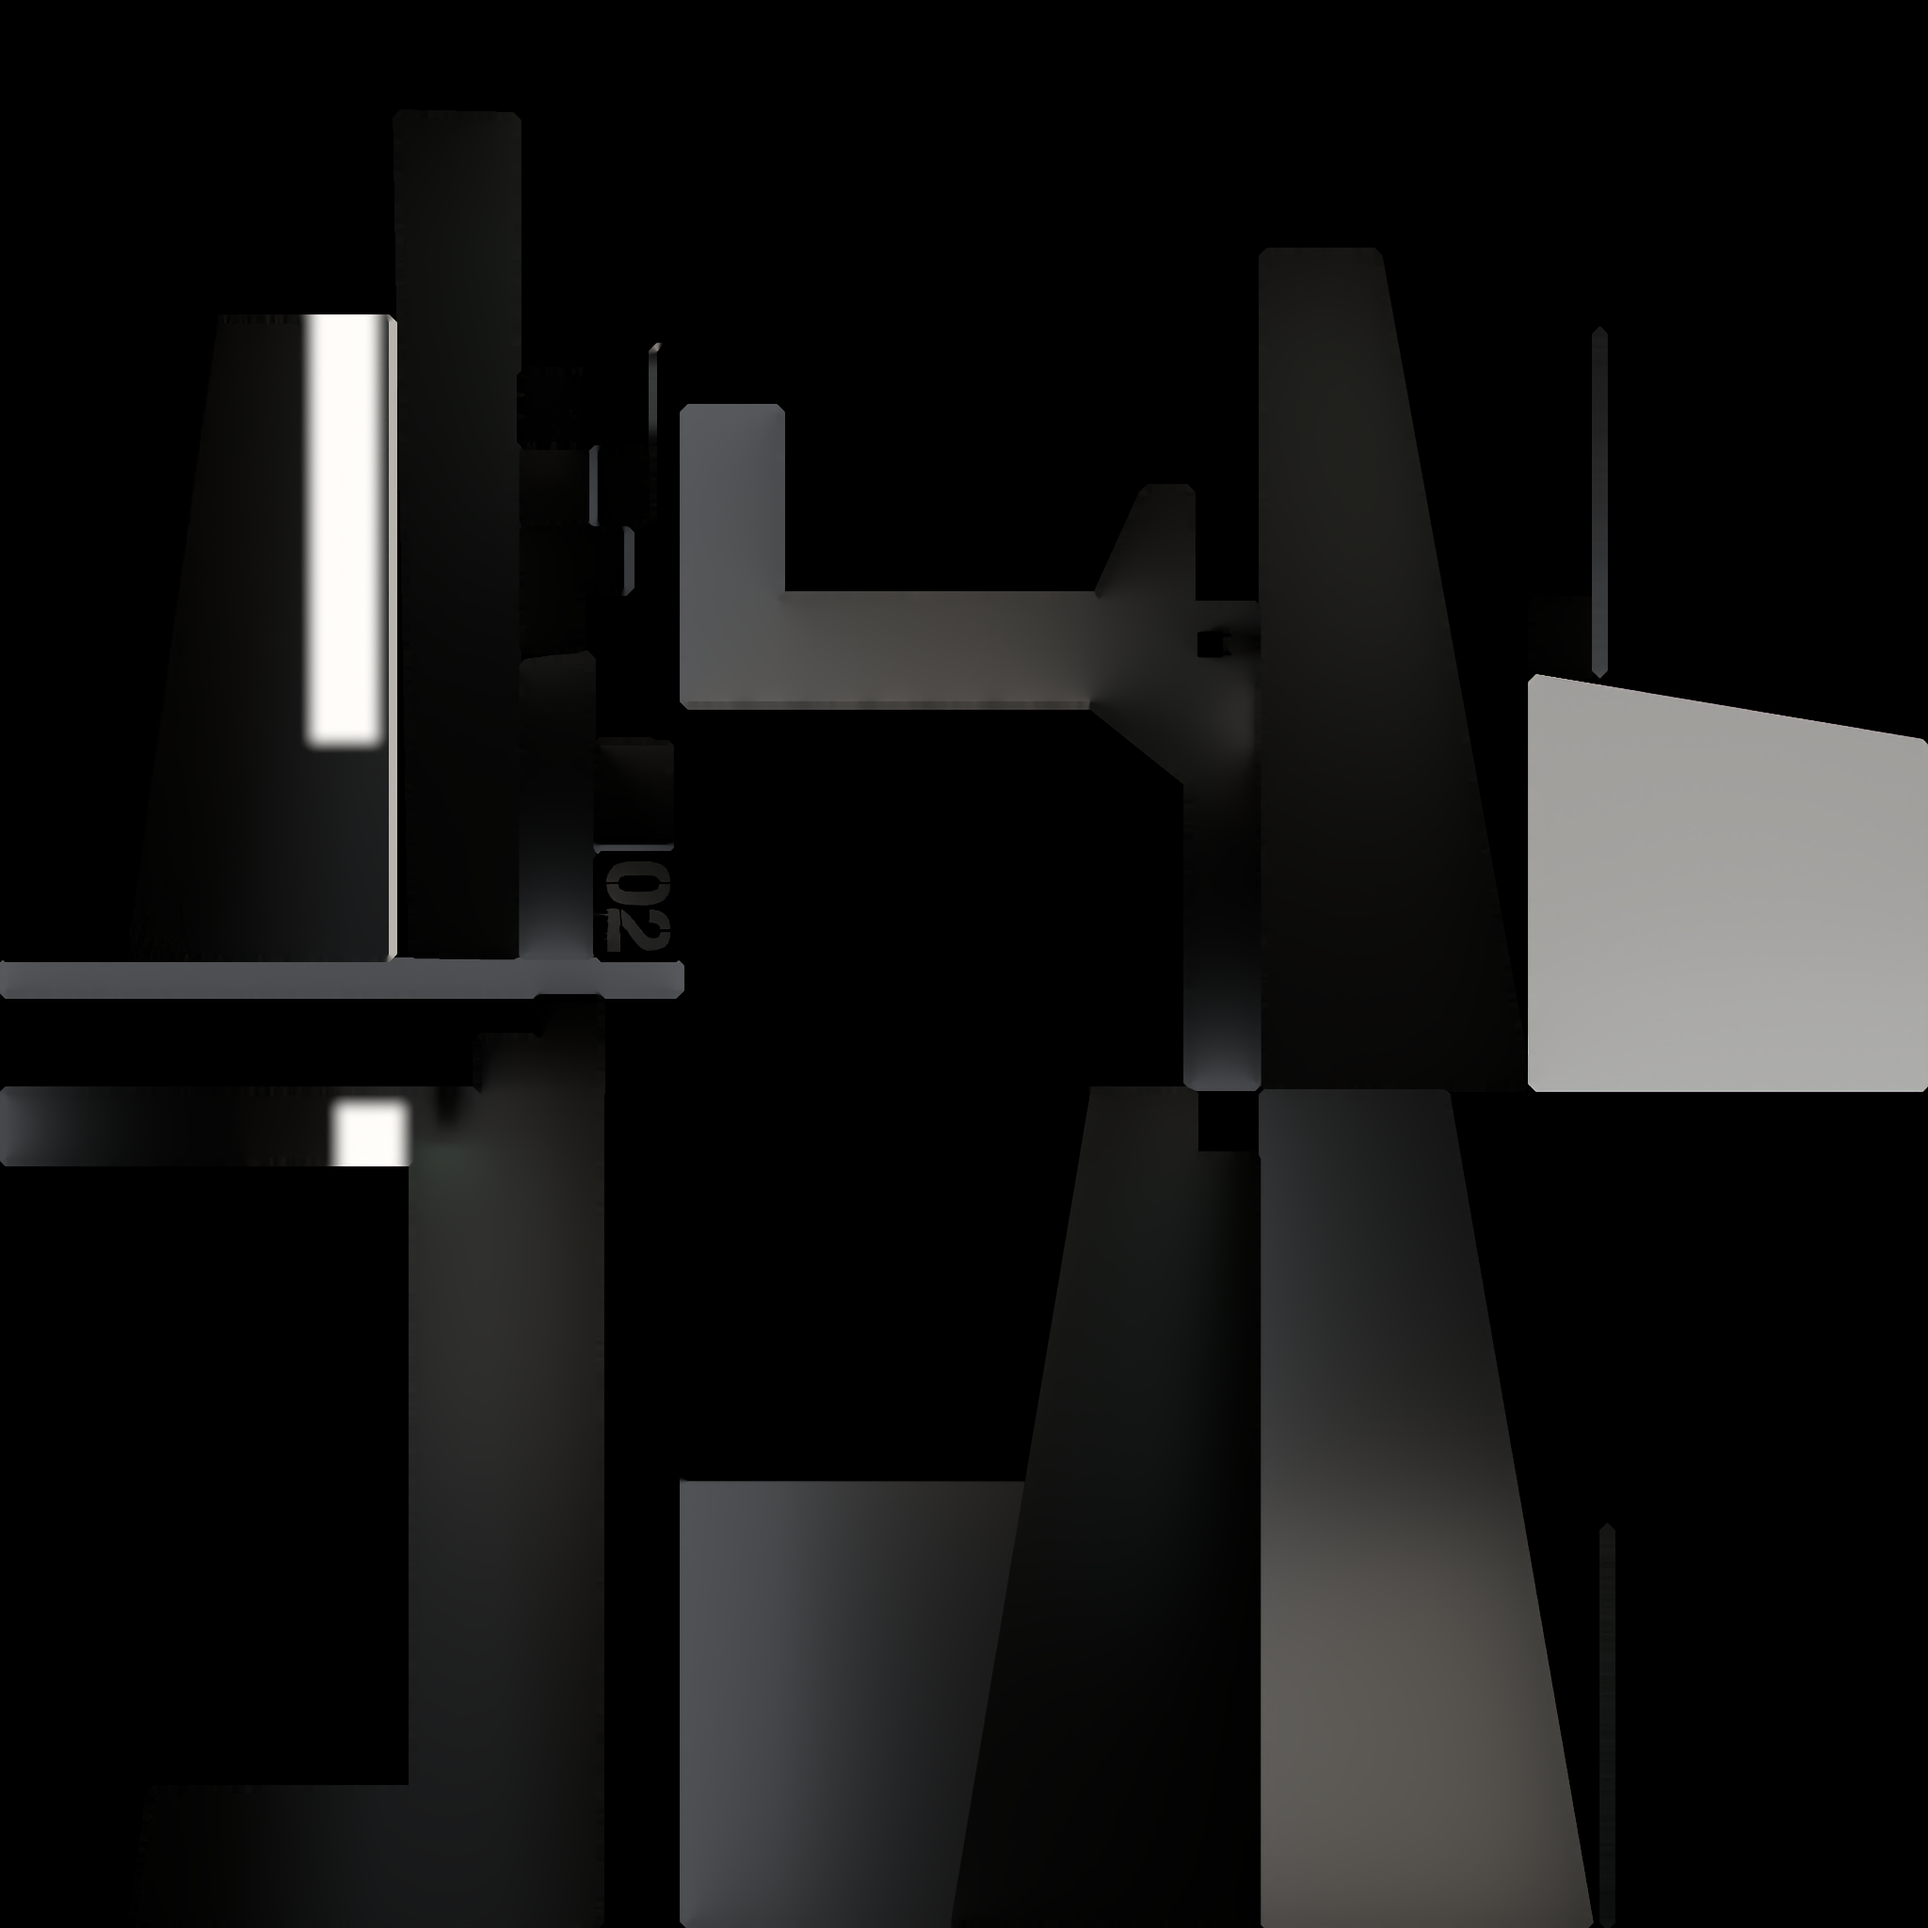
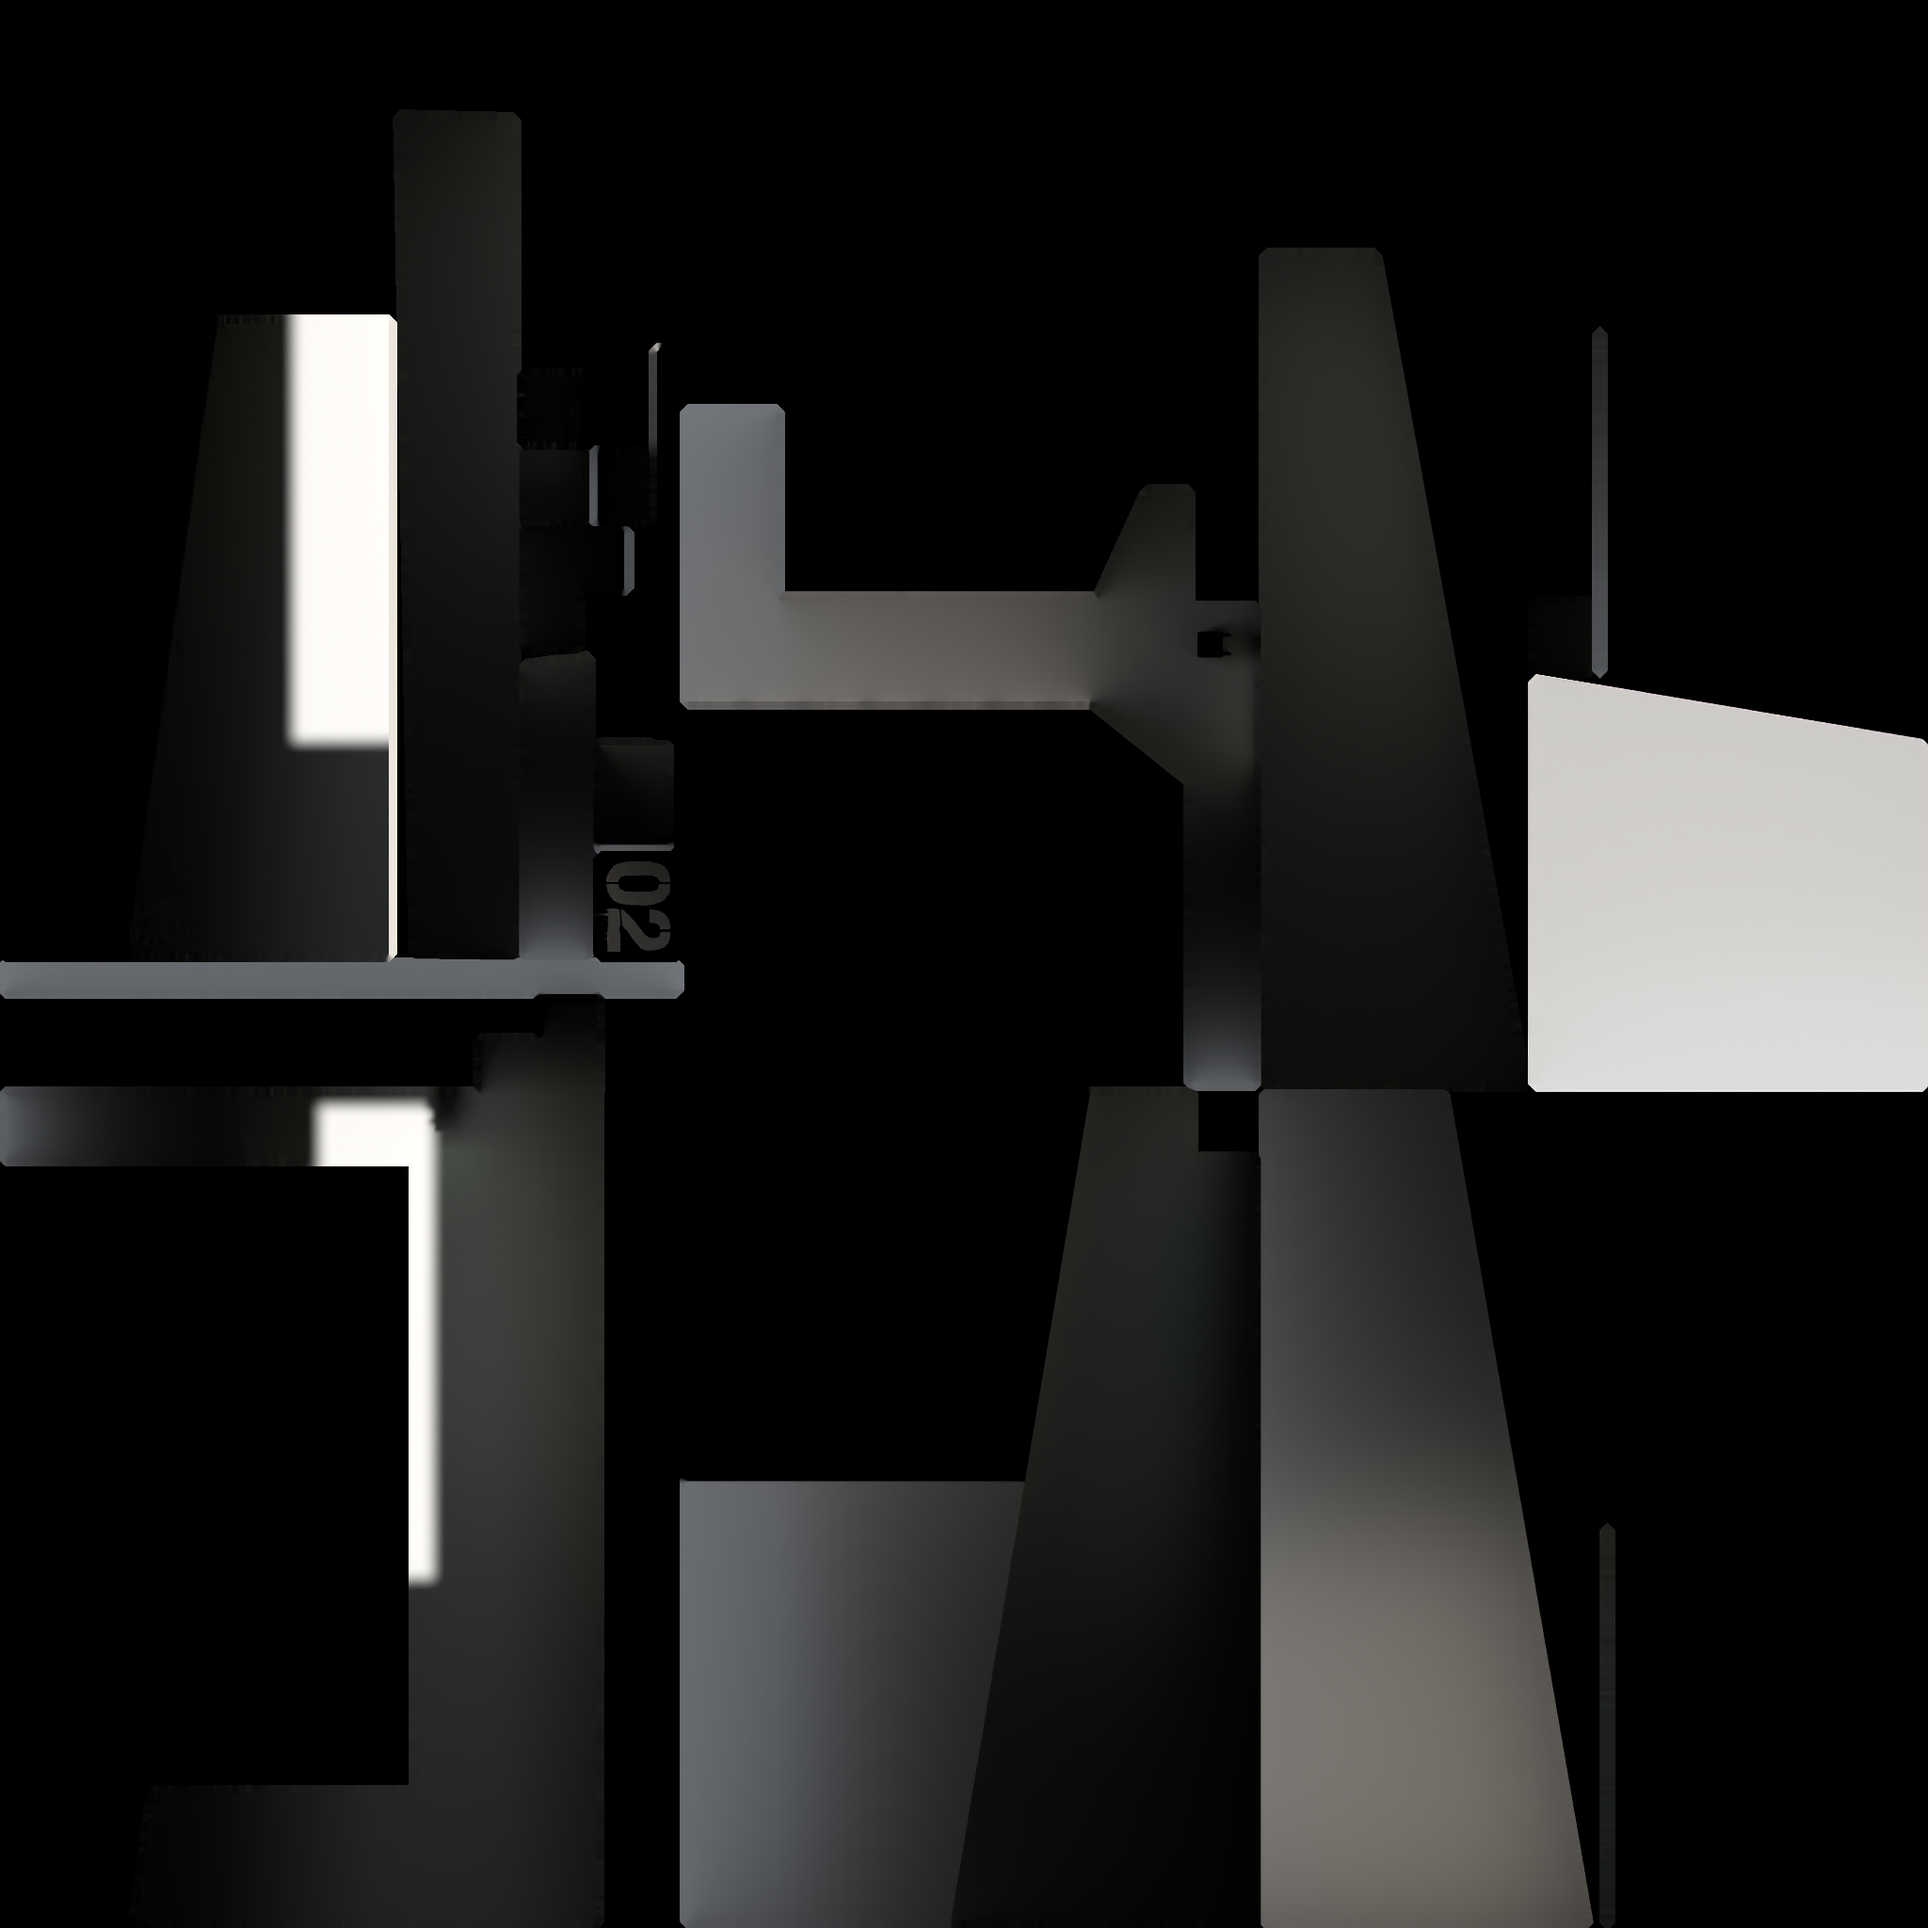
Gallery: vertical nav + outlined name, click anywhere to fly in, terminal click cue, rebake, new grade

diff --git a/src/scripts/gallery/gallery.js b/src/scripts/gallery/gallery.js
@@ -20,6 +20,25 @@ const LIGHT_SCALE = { Fill: 0.0004, Terminal_ScreenGlow: 0.4 };
 // Blender is Z-up, glTF/three is Y-up: (x, y, z) -> (x, z, -y)
 const fromBlender = ([x, y, z]) => new THREE.Vector3(x, z, -y);
 const ease = (t) => (t < 0.5 ? 4 * t * t * t : 1 - Math.pow(-2 * t + 2, 3) / 2);
+const CUE_PERIOD = 5;               // s between "click me" pulses on the terminal (hallway view)
+const CUE_LENGTH = 2;               // s each pulse lasts
+const CUE_PX = 1.5;                 // outline thickness, CSS pixels
+
+// Inverted hull: back faces pushed out along the normal by a fixed number of screen pixels,
+// drawn behind the terminal, so only a rim around its silhouette shows.
+const OutlineShader = {
+  uniforms: { alpha: { value: 0 }, px: { value: CUE_PX }, pxPerMetre: { value: 800 } },
+  vertexShader: /* glsl */ `
+    uniform float px, pxPerMetre;
+    void main() {
+      vec4 mv = modelViewMatrix * vec4(position, 1.0);
+      mv.xyz += normalize(normalMatrix * normal) * px * -mv.z / pxPerMetre;
+      gl_Position = projectionMatrix * mv;
+    }`,
+  fragmentShader: /* glsl */ `
+    uniform float alpha;
+    void main() { gl_FragColor = vec4(vec3(1.0), alpha); }`,
+};
 
 export async function initGallery(root, data, { assets = "/gallery/", onProgress = () => {} } = {}) {
   const host = root.querySelector("[data-gallery-canvas]");
@@ -158,6 +177,33 @@ export async function initGallery(root, data, { assets = "/gallery/", onProgress
   const termBox = new THREE.Box3();
   for (const m of terminalMeshes) termBox.expandByObject(m);
 
+  // ---------------------------------------------------------------- "clickable" cue
+  // Now and then the terminal gets a white rim and a faded "Click on it" above it.
+  const outlineMat = new THREE.ShaderMaterial({ ...OutlineShader, uniforms: THREE.UniformsUtils.clone(OutlineShader.uniforms),
+    side: THREE.BackSide, transparent: true, depthWrite: false });
+  for (const m of terminalMeshes) {
+    const rim = new THREE.Mesh(m.geometry, outlineMat);
+    rim.renderOrder = 1;
+    rim.raycast = () => {};
+    m.add(rim);
+  }
+  const cueLabel = root.querySelector("[data-gallery-cue]");
+  const cueAnchor = new THREE.Vector3((termBox.min.x + termBox.max.x) / 2, termBox.max.y, (termBox.min.z + termBox.max.z) / 2);
+  const cueScreen = new THREE.Vector3();
+  let cue = 0;
+  function updateCue(dt, t) {
+    const phase = (t % CUE_PERIOD) / CUE_LENGTH;
+    const target = state === "hero" && phase < 1 ? Math.sin(Math.PI * phase) ** 2 : 0;
+    cue += (target - cue) * (1 - Math.exp(-dt * 12));     // quick fade when you leave the hallway
+    outlineMat.uniforms.alpha.value = 0.85 * cue;
+    if (!cueLabel) return;
+    cueLabel.style.opacity = String(0.55 * cue);
+    if (cue < 0.01) return;
+    cueScreen.copy(cueAnchor).project(camera);
+    const r = renderer.domElement.getBoundingClientRect();
+    cueLabel.style.transform = `translate(${((cueScreen.x + 1) / 2) * r.width}px, ${((1 - cueScreen.y) / 2) * r.height}px) translate(-50%, calc(-100% - 10px))`;
+  }
+
   // ---------------------------------------------------------------- water
   // Rippled real-time mirror of the hall; its look is driven by the grade (grade.js).
   const water = waterMesh ? createWater(waterMesh, renderer) : null;
@@ -241,7 +287,7 @@ export async function initGallery(root, data, { assets = "/gallery/", onProgress
     const r = renderer.domElement.getBoundingClientRect();
     mouse.set(((e.clientX - r.left) / r.width) * 2 - 1, ((e.clientY - r.top) / r.height) * 2 - 1);
     let pointer = false;
-    if (state === "hero") pointer = !!pick(e, terminalMeshes);
+    if (state === "hero") pointer = true;            // anywhere in the hallway walks you to the terminal
     else if (state === "terminal" && screenMesh) {
       const hit = pick(e, [screenMesh]);
       pointer = hit ? terminal.pointer(hit.uv) : false;
@@ -249,7 +295,7 @@ export async function initGallery(root, data, { assets = "/gallery/", onProgress
     renderer.domElement.style.cursor = pointer ? "pointer" : "";
   });
   renderer.domElement.addEventListener("click", (e) => {
-    if (state === "hero" && pick(e, terminalMeshes)) flyIn();
+    if (state === "hero") flyIn();
     else if (state === "terminal" && screenMesh) {
       const hit = pick(e, [screenMesh]);
       if (hit) terminal.click(hit.uv);
@@ -257,6 +303,7 @@ export async function initGallery(root, data, { assets = "/gallery/", onProgress
   });
   renderer.domElement.addEventListener("wheel", (e) => {
     if (state === "terminal") { e.preventDefault(); terminal.wheel(e.deltaY); }
+    else if (state === "hero" && e.deltaY > 0) flyIn();   // "scroll to explore"
   }, { passive: false });
   addEventListener("keydown", (e) => {
     if (state !== "terminal") return;
@@ -271,6 +318,7 @@ export async function initGallery(root, data, { assets = "/gallery/", onProgress
     renderer.setSize(w, h);
     water?.resize(w * renderer.getPixelRatio(), h * renderer.getPixelRatio());
     dust?.resize(camera, h * renderer.getPixelRatio(), renderer.getPixelRatio());
+    outlineMat.uniforms.pxPerMetre.value = h / (2 * Math.tan(THREE.MathUtils.degToRad(camera.fov) / 2));
     if (state === "terminal") { const p = terminalPose(); pos.copy(p.pos); target.copy(p.target); }
   };
   new ResizeObserver(resize).observe(host);
@@ -298,6 +346,7 @@ export async function initGallery(root, data, { assets = "/gallery/", onProgress
     camera.position.y += Math.sin(t * 0.6) * 0.01;     // a breath of handheld drift
 
     terminal.update(dt, t);
+    updateCue(dt, t);
     water?.update(dt);
     dust?.update(dt);
     renderer.render(scene, camera);

diff --git a/src/scripts/gallery/grade.js b/src/scripts/gallery/grade.js
@@ -10,7 +10,7 @@ export const GRADE = {
   exposure: 1.13,
   contrast: 0.98,
   brightness: 1.4,
-  saturation: 1.19,
+  saturation: 2,
   hue: -20,
   sepia: 0,
   vignette: 1,
@@ -27,11 +27,11 @@ export const GRADE = {
   waterSpeed: 1,        // ripple animation speed
   terminalReflect: 1,   // how much the terminal's metal reflects the hall
   terminalMetal: 0,     // one flat metalness for the terminal body (no metal map)
-  decal: "#e6b800",     // the "02" paint tint (multiplies the white stencil image)
+  decal: "#b9ad7e",     // the "02" paint tint (multiplies the white stencil image)
   decalBright: 1,
-  dust: 0.6,            // share of the dust motes shown in the sun shaft
-  dustSize: 0.035,      // mote size, metres (the shaft is 20-40 m from the hero camera)
-  dustBright: 3,
+  dust: 0.37,           // share of the dust motes shown (beam and room)
+  dustSize: 0.014,      // mote size, metres (the shaft is 20-40 m from the hero camera)
+  dustBright: 0.75,
   dustRoom: 0.2,        // brightness of the room dust relative to the sun-shaft dust
   dustSpeed: 1,
 };
